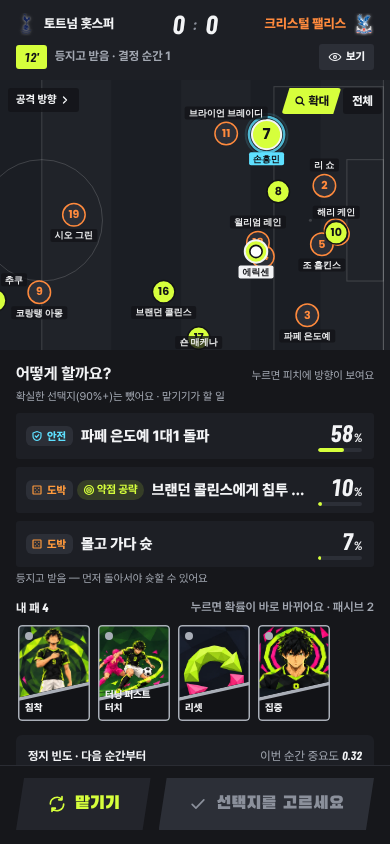
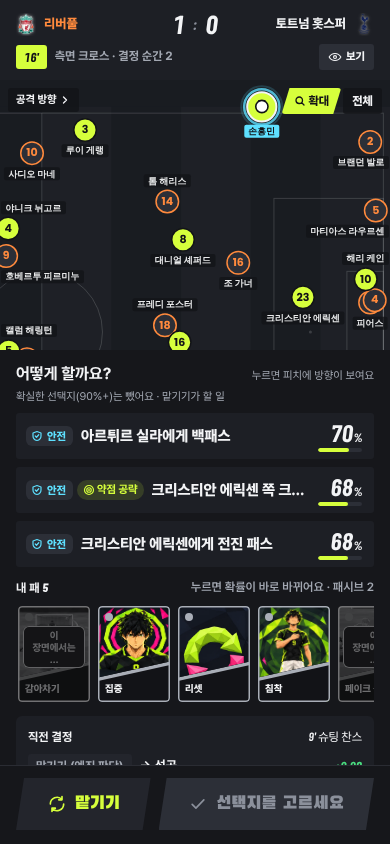
C.75v 결정 순간 경기장 고정 + 선택지 패널만 스크롤 (U 추가 지시 16:18)
- 폰 세로 결정 순간: 화면 높이 고정, 스코어·경기장은 위에, 선택지 패널만 스크롤, [맡기기][확정] 패널 아래 고정
- B 하네스를 node 덤프(scripts/c75v-moment.json) 렌더로, 캡처 갱신

Claude-Session: https://claude.ai/code/session_01Cj7SUhAi5jREkP8t7EYJHr

diff --git a/scripts/c75v-harness.ts b/scripts/c75v-harness.ts
@@ -1,42 +1,26 @@
-// C.75v 확인 하네스: 실제 엔진 경기(MyMatchRun, 최적 플레이 봇으로 진행)에서 조건에 맞는 첫 결정 순간을 멈추고
-// 실제 결정 순간 화면(momentView + MomentPitch)을 그린다. B 발동(확실한 선택지 다시 넣음)은 드물어 게임 화면 흐름으로는 찾기 어려워서 쓴다.
-// 개발 서버에서만: npx vite --port 5175 → http://localhost:5175/scripts/c75v-harness.html?p=kante&seed=c75v-2-kante&want=back (빌드·배포에는 들어가지 않는다)
+// C.75v 확인 하네스: node 에서 실제 엔진 경기로 뜬 결정 순간(scripts/diag/c75v-dump.ts → scripts/c75v-moment.json)을
+// 실제 결정 순간 화면(momentView + MomentPitch)으로 그린다. B 발동(확실한 선택지 다시 넣음)은 드물어 게임 화면 흐름으로는 찾기 어려워서 쓴다.
+// 개발 서버에서만: npx vite --port 5175 → http://localhost:5175/scripts/c75v-harness.html?sel=0 (빌드·배포에는 들어가지 않는다)
 import '../src/ui/design/tokens.css';
 import '../src/ui/design/bundle.css';
 import '../src/ui/design/skin-b.css';
 import '../src/ui/style.css';
-import { MyMatchRun } from '../src/engine/adapter';
-import { bestChoice, type Moment } from '../src/engine/moments';
-import { newGame, roundMatch } from '../src/game';
-import { replayPlayers } from '../src/replay';
+import type { DecisionRecord, Moment } from '../src/engine/moments';
+import type { ReplayFrame, ReplayPlayer } from '../src/replay';
 import { initFaces } from '../src/ui/faces';
 import { setPitchTeams } from '../src/ui/pitch/renderer';
 import { MomentPitch, momentView } from '../src/ui/views/moment';
+import dump from './c75v-moment.json';
 
+const d = dump as unknown as { teams: [string, string]; moment: Moment; frames: ReplayFrame[]; players: ReplayPlayer[]; log: DecisionRecord[] };
 const q = new URLSearchParams(location.search);
-const want = q.get('want') ?? 'back';
-const g = newGame({ mode: 'real', playerId: q.get('p') ?? 'kante', seed: q.get('seed') ?? 'c75v-2-kante', difficulty: 'normal' });
-const rm = roundMatch(g);
-const run = new MyMatchRun({ ...rm.input, control: { mode: 'direct', stop: 'all' } }, { teams: rm.teams });
-const hit = (m: Moment) => (want === 'back' ? !!m.sureBack : want === 'five' ? m.options.length >= 5 : m.type === 'onball' && m.options.length === 3);
-let m = run.advance();
-let n = 0;
-while (m && !(m.type !== 'halftime' && hit(m))) {
-  if (m.type === 'halftime') run.halftime(null);
-  else run.resolve(bestChoice(m));
-  n++;
-  m = run.advance();
-}
-const app = document.getElementById('app')!;
-if (!m) app.textContent = `조건(${want})에 맞는 결정 순간 없음 (${n}번 지남)`;
-else {
-  const sel = q.get('sel') !== null ? Number(q.get('sel')) : null;
-  const s = run.sim.state;
-  const players = new Map(replayPlayers(s.input.home, s.input.away).map((p) => [p.id, p]));
-  setPitchTeams(rm.teams);
-  app.innerHTML = `<main class="screen screen-moment">${momentView({ moment: m, teams: rm.teams, selected: sel, card: null, stop: 'all', last: s.moments.log.at(-1) ?? null, count: s.moments.log.length + 1 })}</main>`;
-  const endE = run.frames.at(-1)!.e;
-  const pitch = new MomentPitch(run.frames, players, m.side, m, Math.max(0, endE - 1), sel, m.options);
-  void initFaces().then(() => pitch.attach());
-  document.body.dataset.ready = '1';
-}
+const sel = q.get('sel') !== null ? Number(q.get('sel')) : null;
+const m = d.moment;
+const players = new Map(d.players.map((p) => [p.id, p]));
+setPitchTeams(d.teams);
+document.documentElement.classList.add('app-moment');
+document.getElementById('app')!.classList.add('app-moment');
+document.getElementById('app')!.innerHTML = `<main class="screen screen-moment">${momentView({ moment: m, teams: d.teams, selected: sel, card: null, stop: 'all', last: d.log.at(-1) ?? null, count: d.log.length + 1 })}</main>`;
+const pitch = new MomentPitch(d.frames, players, m.side, m, d.frames[0]!.e, sel, m.options);
+void initFaces().then(() => pitch.attach());
+document.body.dataset.ready = '1';

diff --git a/scripts/diag/c75v-dump.ts b/scripts/diag/c75v-dump.ts
@@ -1,0 +1,28 @@
+// C.75v 하네스용 장면 덤프: node 에서 실제 엔진 경기(최적 플레이 봇)로 조건 장면까지 진행해 Moment·직전 2초 프레임·선수 표를 JSON 으로 쓴다.
+// npx vite-node scripts/diag/c75v-dump.ts -- [want=back|five|normal] [선수 id=kante] [시드=c75v-2-kante] [출력=scripts/c75v-moment.json]
+import { writeFileSync } from 'node:fs';
+import { MyMatchRun } from '../../src/engine/adapter';
+import { bestChoice, type Moment } from '../../src/engine/moments';
+import { newGame, roundMatch } from '../../src/game';
+import { replayPlayers } from '../../src/replay';
+
+const [want = 'back', pid = 'kante', seed = 'c75v-2-kante', out = 'scripts/c75v-moment.json'] = process.argv.slice(2).filter((a) => a !== '--');
+const hit = (m: Moment) => (want === 'back' ? !!m.sureBack : want === 'five' ? m.options.length >= 5 : m.type === 'onball' && m.options.length === 3);
+const g = newGame({ mode: 'real', playerId: pid, seed, difficulty: 'normal' });
+const rm = roundMatch(g);
+const run = new MyMatchRun({ ...rm.input, control: { mode: 'direct', stop: 'all' } }, { teams: rm.teams });
+let m = run.advance();
+while (m && !(m.type !== 'halftime' && hit(m))) {
+  if (m.type === 'halftime') run.halftime(null);
+  else run.resolve(bestChoice(m));
+  m = run.advance();
+}
+if (!m) throw new Error('조건 장면 없음');
+const s = run.sim.state;
+const endE = run.frames.at(-1)!.e;
+const { cands: _c, variants: _v, ...moment } = m as Moment & { cands?: unknown; variants?: unknown };
+writeFileSync(out, JSON.stringify({
+  teams: rm.teams, moment, frames: run.frames.filter((f) => f.e >= endE - 2), players: replayPlayers(s.input.home, s.input.away),
+  log: s.moments.log, seed, pid,
+}));
+console.log(`${out}: ${pid} ${seed} ${m.minute}' 선택지 ${m.options.length}`);

diff --git a/src/ui/style.css b/src/ui/style.css
@@ -2031,6 +2031,12 @@ button.dec-row.panel { background: var(--surface-1); padding: 12px 14px; font-si
   .mo-v3 .mo-actions { margin: 4px -16px 0; padding: 12px 16px calc(14px + env(safe-area-inset-bottom)); border-top: 1px solid var(--line); box-shadow: none; }
   .mo-v3 .mo-actions .po-btn, .mo-v3 .oc-actions .po-btn { height: 52px; }
   .mo-v3.mo-outcome .oc-panel { min-height: calc(100dvh - clamp(190px, 32dvh, 270px) - 84px); }
+  /* C.75v (U 추가 지시 16:18): 결정 순간은 한 화면 고정 — 스코어 줄·경기장은 위에 고정, 그 아래 선택지 패널만 스크롤(겹쳐 덮지 않음), [맡기기][확정]은 패널 아래 붙음 */
+  .mo-v3.mo-fold:not(.mo-outcome) { height: 100dvh; min-height: 0; overflow: hidden; }
+  .mo-v3.mo-fold:not(.mo-outcome) > .mo-top, .mo-v3.mo-fold:not(.mo-outcome) > .mo-stage { flex: none; }
+  .mo-v3.mo-fold:not(.mo-outcome) > .mo-panel { flex: 1 1 auto; min-height: 0; overflow-y: auto; overscroll-behavior: contain; }
+  .mo-v3.mo-fold:not(.mo-outcome) > .mo-panel > * { flex-shrink: 0; }
+  .mo-v3.mo-fold:not(.mo-outcome) .mo-actions { margin-top: auto; }
   /* C.75v 선택지 4~5개: 경기장을 조금 낮추고 줄 높이를 줄여 5줄 + 패 줄 + [맡기기][확정]이 390×844 한 화면에 들어오게 */
   html:not(.is-pitch-portrait) .mo-v3.mo-many .mo-stage { height: clamp(170px, 27dvh, 228px); }
   html:not(.is-pitch-portrait) .mo-v3.mo-n5 .mo-stage { height: clamp(160px, 23dvh, 196px); }

diff --git a/docs/game-design.md b/docs/game-design.md
@@ -5902,6 +5902,7 @@ pending 125 b(76 · 77-5 · 77-10). 브랜치 `claude/c74b-travel-records`. `PAT
 2. **B. 확실한 선택지 다시 넣기**(`sureBackBelow` 0.3): 남은 선택지(몰고 가다 슛 제외)가 모두 30% 미만이고 90% 초과로 뺀 선택지가 있으면, 그중 기대 평점 최대(= `delegateEv`를 만든 것) 1개를 "안전"으로 맨 위에 넣는다(`Moment.sureBack`). 화면 안내는 "다른 선택지가 모두 30% 미만이라 확실한 선택지(90%+) 1개를 맨 위에 넣었어요". B 때문에 전에는 판정 있는 선택지 1개라 멈추지 않던 순간(예 "전진 패스 98% / 침투 패스 10%")이 이제 2개 선택으로 멈춘다 — 측정상 드물다(봇 소유 정지의 0~0.4%).
 3. **C. 선택지 최대 5개**(`maxOptions` 5, `extraEvGap` 0.03, `extraTypeCap` 2): 안전·균형·도박 3칸(C.40 고르기 + C.75a 자리 보장) + B + 몰고 가다 슛 뒤 남은 칸을 **더 고를 거리**로 채운다. 후보: maxP 이하, 이미 있는 것과 `sameAs`·같은 이름 줄 아님, 같은 행동 종류가 이미 2줄 미만, **기대 평점(봇 `optionValue`) ≥ 맡기기 기준 − 0.03**(맡기기 기준 = 엔진 효용 1위 후보의 기대 평점; 0.05 는 거의 다 들어와 평균 4.1개라 0.03). 순서: 새 행동 종류 → 새 받는 사람 → 기대 평점 큰 것. 3칸끼리 이름이 같으면(같은 수비수 돌파 방향만 다름 등) 기대 평점 큰 하나만 남긴다(전에는 "토머스 샤프 1대1 돌파"가 두 줄 나오던 것).
 4. **화면**(`ui/views/moment.ts`, `style.css`): 선택지 4~5개면 `.mo-many`/`.mo-n5` — 폰 세로 경기장 높이 clamp(160px, 23dvh, 196px)(4개 228px까지), 줄 min-height 46 → 42px, 줄 간격 8 → 5px, 확률 숫자 24 → 21px. 390×844에서 5줄 + 안내 + 패 카드 줄 + [맡기기][확정]이 스크롤 없이 보인다(캡처). PC는 오른쪽 패널에 그대로 들어간다.
+4-1. **경기장 고정 + 선택지만 스크롤**(U 추가 지시 16:18, 사용자 "선택지 패널이 경기장을 가린다", 캡처 `docs/user-reports/1548-moment-options.jpg`): 폰 세로 결정 순간 화면을 한 화면(100dvh)으로 고정했다. 스코어 줄·경기장은 위에 그대로 있고, 그 아래 선택지 패널(`.mo-panel`)만 스크롤하며 [맡기기][확정]은 패널 아래에 붙는다(패널 안 sticky). 전에는 페이지 전체가 스크롤돼 내리면 경기장이 위로 밀려 사라지고 패널이 그 자리를 덮었다. 겹쳐 덮는 시트는 쓰지 않는다. 결과 재생 화면(`.mo-outcome`)은 그대로. PC(1024 이상)는 원래대로 경기장 옆 패널. 확인: 390×844·412×760에서 페이지 스크롤 0(scrollHeight = 화면 높이), 패널을 끝까지 내려도 경기장 위치 그대로(`결정순간-선택지5개-패널스크롤`).
 5. 봇: `optionValue`·`bestChoice`는 선택지 배열을 그대로 보므로 새 줄(B·더 고를 거리)도 평가한다. B의 확실한 선택지는 기대 평점이 `delegateEv`와 같아 봇에게는 "맡기기"와 같은 몫.
 6. 측정 줄 `scripts/moment-shape.ts optionLine`(balance:moments·cards 끝 "봇 선택지 모양 (C.75v)": 소유 정지 선택지 수 분포·라벨 분포·안전인데 50% 미만·B 발동), 진단 `scripts/diag/moment-options.ts`(정지마다 선택지·확률·기대 평점), `scripts/diag/c75v-b-count.ts`(B 발동 찾기). 캡처 `scripts/c75v-capture.mjs`(게임 화면) · `scripts/c75v-harness.ts`+`c75v-capture-harness.mjs`(B는 드물어 실제 엔진 경기를 봇으로 진행해 그 장면을 그리는 하네스).
 
@@ -5931,8 +5932,8 @@ pending 125 b(76 · 77-5 · 77-10). 브랜치 `claude/c74b-travel-records`. `PAT
 - 해석: 라벨 어긋남(안전인데 50% 미만) 0. 라벨 분포가 안전 쪽으로 기운 것은 실제 성공 확률 분포 그대로다(소유 선택지 대부분이 50% 이상). 선택지 2개 정지가 생긴 것은 3칸끼리 같은 이름 줄을 합친 몫(전에는 같은 돌파가 두 줄)과 B. 5개 정지는 소유 정지의 약 11%. 봇 격차는 표준오차 안에서 같다(+0.02·+0.01). B는 "모든 순간" 봇 경기에서 소유 정지 약 1.5%(CDM 시드 c75v-2 등), 맡기기 흐름 105경기 599 정지에서는 0 — 드문 장면이다.
 - 테스트 `tests/c75v.test.ts` 4개(구간 라벨 단위·PATCH_LABEL, 소유 정지 최대 5·sameAs/이름 중복 없음·확률 순·몰고 가다 슛 끝·구간 라벨·5개 장면 있음, B는 30% 미만일 때만 맨 위 1개 안전, B 조건이 맞으면 늘 발동 + 발동 장면 있음). 기존 `cards.test`(90% 초과는 B 맨 위만, 라벨 = 구간)·`moments.test`(선택지 ≤ 5, 같은 이름 줄 없음) 갱신.
 - `npm test` **866개 중 865 통과 + 1개 부하 탓 실패**(카드 경기 계산 2초 테스트, balance·engine:check 와 동시 실행 중 직접 2,186 ms → 단독 재실행 1,148 ms 통과; 같은 부하에서 main 도 1,922 ms 로 비슷). `npm run typecheck`·`balance:engine:check`(경량 가드 모두 통과)·`build` 통과. `npm run balance` **회귀 가드 19/19 통과**(레전더리 35세 900+ 25/96 = 0.260 ≤ 0.30, 30세까지 900+ 0.188).
-- main 병합(C.75l·C.75t·C.75m·C.75u, BALANCE_VERSION 59 와 겹쳐 60) 뒤 다시: `npm test` **901개 모두 통과**, typecheck·`balance:engine:check`·build 통과, `balance:check` 회귀 가드 19/19 통과(25/96 = 0.260), 자동 경기 지문 `c74a-fingerprint` 9dc58b0386794787 = main. STAGE_LABEL 은 지시대로 '44단계'(main 의 '46단계'(C.76b)를 이 패치 단계로 되돌림 — 마스터 확인 필요). 두 번째 main 병합(C.75z·C.76 묶음, BALANCE_VERSION 60 과 겹쳐 61) 뒤 typecheck·test·engine:check 다시 통과(아래 보고).
-- 확인 캡처 `docs/c75v-check/`(8장): 폰 `결정순간-선택지5개`(+`-선택`) · `결정순간-평범` · `결정순간-B발동`(+`-선택`, 하네스: kante 시드 c75v-2-kante 7분 "전진 패스 98% / 침투 패스 10%") · PC `pc-결정순간-선택지5개` · `pc-결정순간-평범` · `pc-결정순간-B발동`(하네스). 가로 넘침·가려진 버튼 0.
+- main 병합(C.75l·C.75t·C.75m·C.75u, BALANCE_VERSION 59 와 겹쳐 60) 뒤 다시: `npm test` **901개 모두 통과**, typecheck·`balance:engine:check`·build 통과, `balance:check` 회귀 가드 19/19 통과(25/96 = 0.260), 자동 경기 지문 `c74a-fingerprint` 9dc58b0386794787 = main. STAGE_LABEL 은 지시대로 '44단계'(main 의 '46단계'(C.76b)를 이 패치 단계로 되돌림 — 마스터 확인 필요). 두 번째 main 병합(C.75z·C.76 묶음, BALANCE_VERSION 60 과 겹쳐 61) 뒤 test 920개 중 919 + 2초 테스트 부하 실패 1(단독 2회 통과), typecheck·engine:check·build 통과, balance 는 다시 돌리지 않음(CI). 경기장 고정(4-1) 뒤 `npm test` **920개 모두 통과**·build 통과.
+- 확인 캡처 `docs/c75v-check/`(8장): 폰 `결정순간-선택지5개` · `결정순간-선택지5개-패널스크롤` · `결정순간-평범` · `결정순간-B발동`(+`-선택`, 하네스: node 에서 kante 시드 c75v-2-kante 18분 "전진 패스 98% / 침투 패스 10%" 장면을 `scripts/diag/c75v-dump.ts` 로 떠서 `scripts/c75v-moment.json` → `scripts/c75v-harness.ts` 가 그림. 브라우저에서 같은 시드로 경기를 돌리면 입력이 조금 달라 B 가 안 나와서) · PC `pc-결정순간-선택지5개` · `pc-결정순간-평범` · `pc-결정순간-B발동`(하네스). 가로 넘침·가려진 버튼 0.
 - 디자인 없는 새 화면/패널: 없음(기존 결정 순간 패널의 줄 수·높이만 바뀜, B 안내 문구 1줄).
 
 **남은 것·주의**
